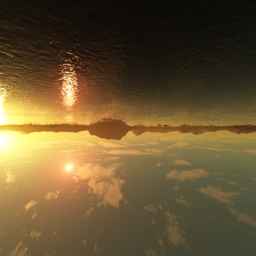
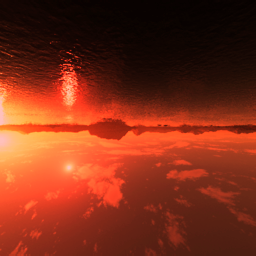
타이틀씬 배경 업데이트

diff --git a/Project/Source/InGame/Scene/GameScene.cpp b/Project/Source/InGame/Scene/GameScene.cpp
@@ -111,16 +111,20 @@ void GameScene::unLoadData()
 void GameScene::loadActorData()
 {
 	//Create ControlRobot
-	auto control = std::make_shared<ControlPlayer>(weak_from_this(), mInfo.mControlInfo);
+	/*auto control = std::make_shared<ControlPlayer>(weak_from_this(), mInfo.mControlInfo);
 	control->setScale(1.5f);
+	control->setPosition(mGameMap->getStartPosition() + Vector3(0.0f, 100.0f, 0.0f));
+	control->initailize();*/
+
+	auto control = std::make_shared<Actor>(weak_from_this());
 	control->setPosition(mGameMap->getStartPosition() + Vector3(0.0f, 100.0f, 0.0f));
 	control->initailize();
 
 	//Create CameraActor
-	mFollowCamera = std::make_shared<FollowCameraActor>(weak_from_this(), control);
-	mFollowCamera->initailize();
-	/*auto mCamera = std::make_shared<CameraActor>(weak_from_this());
-	mCamera->initailize();*/
+	//mFollowCamera = std::make_shared<FollowCameraActor>(weak_from_this(), control);
+	//mFollowCamera->initailize();
+	auto mCamera = std::make_shared<CameraActor>(weak_from_this());
+	mCamera->initailize();
 
 	//Create ParticleCreator
 	auto particle = std::make_shared<ParticleCreator>(weak_from_this(), control);
@@ -128,9 +132,9 @@ void GameScene::loadActorData()
 	particle->setPosition(control->getPosition() + Vector3::UnitY * 300.0f);
 	particle->initailize();
 
-	//Create MinionManager
-	mMinionManager = std::make_shared<MinionManager>(weak_from_this(), mGameMap, mInfo.mMinionInfo);
-	mMinionManager->initailize();
+	////Create MinionManager
+	//mMinionManager = std::make_shared<MinionManager>(weak_from_this(), mGameMap, mInfo.mMinionInfo);
+	//mMinionManager->initailize();
 }
 
 void GameScene::loadGameMap()
@@ -145,9 +149,9 @@ void GameScene::loadGameMap()
 
 void GameScene::loadUI()
 {
-	mGameHUD = std::make_shared<GameHUD>(std::dynamic_pointer_cast<GameScene>(weak_from_this().lock()), getGame().lock()->getRenderer());
-	mGameHUD->initailize();
-	
+	//mGameHUD = std::make_shared<GameHUD>(std::dynamic_pointer_cast<GameScene>(weak_from_this().lock()), getGame().lock()->getRenderer());
+	//mGameHUD->initailize();
+	//
 }
 
 void GameScene::pauseGame(const std::string& type)
@@ -195,6 +199,6 @@ void GameScene::stageFail()
 
 void GameScene::goToTitle()
 {
-	getGame().lock()->getSound()->stopBgmChannel(0);
+	//getGame().lock()->getSound()->stopBgmChannel(0);
 	mSceneHelper->changeToTitleScene(mInfo);
 }

diff --git a/Project/Source/Game/Actor/Camera/CameraActor.cpp b/Project/Source/Game/Actor/Camera/CameraActor.cpp
@@ -93,6 +93,10 @@ void CameraActor::InputBasic()
 	{
 		angluarSpeed = Math::TwoPi / 5;
 	}
+	if (game->getKeyBoard()->isKeyPressed('v'))
+	{
+		upSpeed = -100.0f;
+	}
 	if (game->getKeyBoard()->isKeyPressed(32))
 	{
 		upSpeed = 100.0f;
@@ -128,6 +132,10 @@ void CameraActor::InputMouse()
 	if (game->getKeyBoard()->isKeyPressed('d'))
 	{
 		sideSpeed = 300.0f;
+	}
+	if (game->getKeyBoard()->isKeyPressed('v'))
+	{
+		upSpeed = -100.0f;
 	}
 	if (game->getKeyBoard()->isKeyPressed(32))
 	{

diff --git a/Project/Source/InGame/Scene/TitleScene.cpp b/Project/Source/InGame/Scene/TitleScene.cpp
@@ -62,6 +62,7 @@ void TitleScene::loadData()
 	auto game = getGame().lock();
 	auto ui = std::make_shared<UI>(weak_from_this(), game->getRenderer());
 	ui->initailize();
+	ui->setBackgroundTexture(game->getRenderer()->getTexture("Asset/Image/TitleScene/background.png"));
 	ui->addButton([this]() {selectStage(); }, Vector2(0.0f, 30.0f), "Asset/Image/Button/PlayButton");
 	ui->addButton([this]() {
 		mInfo.saveGameInfo() ?

diff --git a/Project/Source/InGame/Map/GameMap.cpp b/Project/Source/InGame/Map/GameMap.cpp
@@ -195,8 +195,8 @@ void GameMap::addDirectionalLight()
 		light->setAmbientLight(Vector3(0.25f, 0.25f, 0.25f));
 		dirLight.direction = Vector3(0.5f, 0.2f, 0.5f);
 		dirLight.diffuseColor = Vector3::Rgb(255.0f, 100.0f, 100.0f);
-		dirLight.specularColor = Vector3(0.9f, 0.9f, 0.9f);
-		dirLight.intensity = 1.0f;
+		dirLight.specularColor = Vector3(0.5f, 0.5f, 0.5f);
+		dirLight.intensity = 0.7f;
 	}
 	else
 	{

diff --git a/Project/Source/InGame/Actor/Tile/LightTile.cpp b/Project/Source/InGame/Actor/Tile/LightTile.cpp
@@ -60,8 +60,8 @@ void LightTile::turnOnLight()
 	pLight.diffuseColor = Vector3(1.0f, 1.0f, 1.0f);
 	pLight.specularColor = Vector3(0.8f, 0.8f, 0.8f);
 	pLight.constant = 1.0f;
-	pLight.linear = 0.007f;
-	pLight.quadratic = 0.0002f;
+	pLight.linear = 0.035f;
+	pLight.quadratic = 0.000068f;
 
 	mPointLight = std::make_shared<PointLight>(pLight);
 

diff --git a/Project/Source/InGame/Actor/Player/Type/MinionAi/MinionManager.cpp b/Project/Source/InGame/Actor/Player/Type/MinionAi/MinionManager.cpp
@@ -74,5 +74,5 @@ void MinionManager::createMinion()
 void MinionManager::resetHUD()
 {
 	auto gameScene = std::dynamic_pointer_cast<GameScene>(getScene().lock());
-	gameScene->getGameHUD()->resetInfo();
+	//gameScene->getGameHUD()->resetInfo();
 }

diff --git a/Project/Source/Game/UI/UI.cpp b/Project/Source/Game/UI/UI.cpp
@@ -10,6 +10,7 @@ UI::UI(const std::weak_ptr<class Scene>& scene, const std::weak_ptr<class Render
 	: mState(UIState::Active)
 	, mScene(scene)
 	, mRenderer(render)
+	, mBackgroundPos(Vector2::Zero)
 {
 
 }
